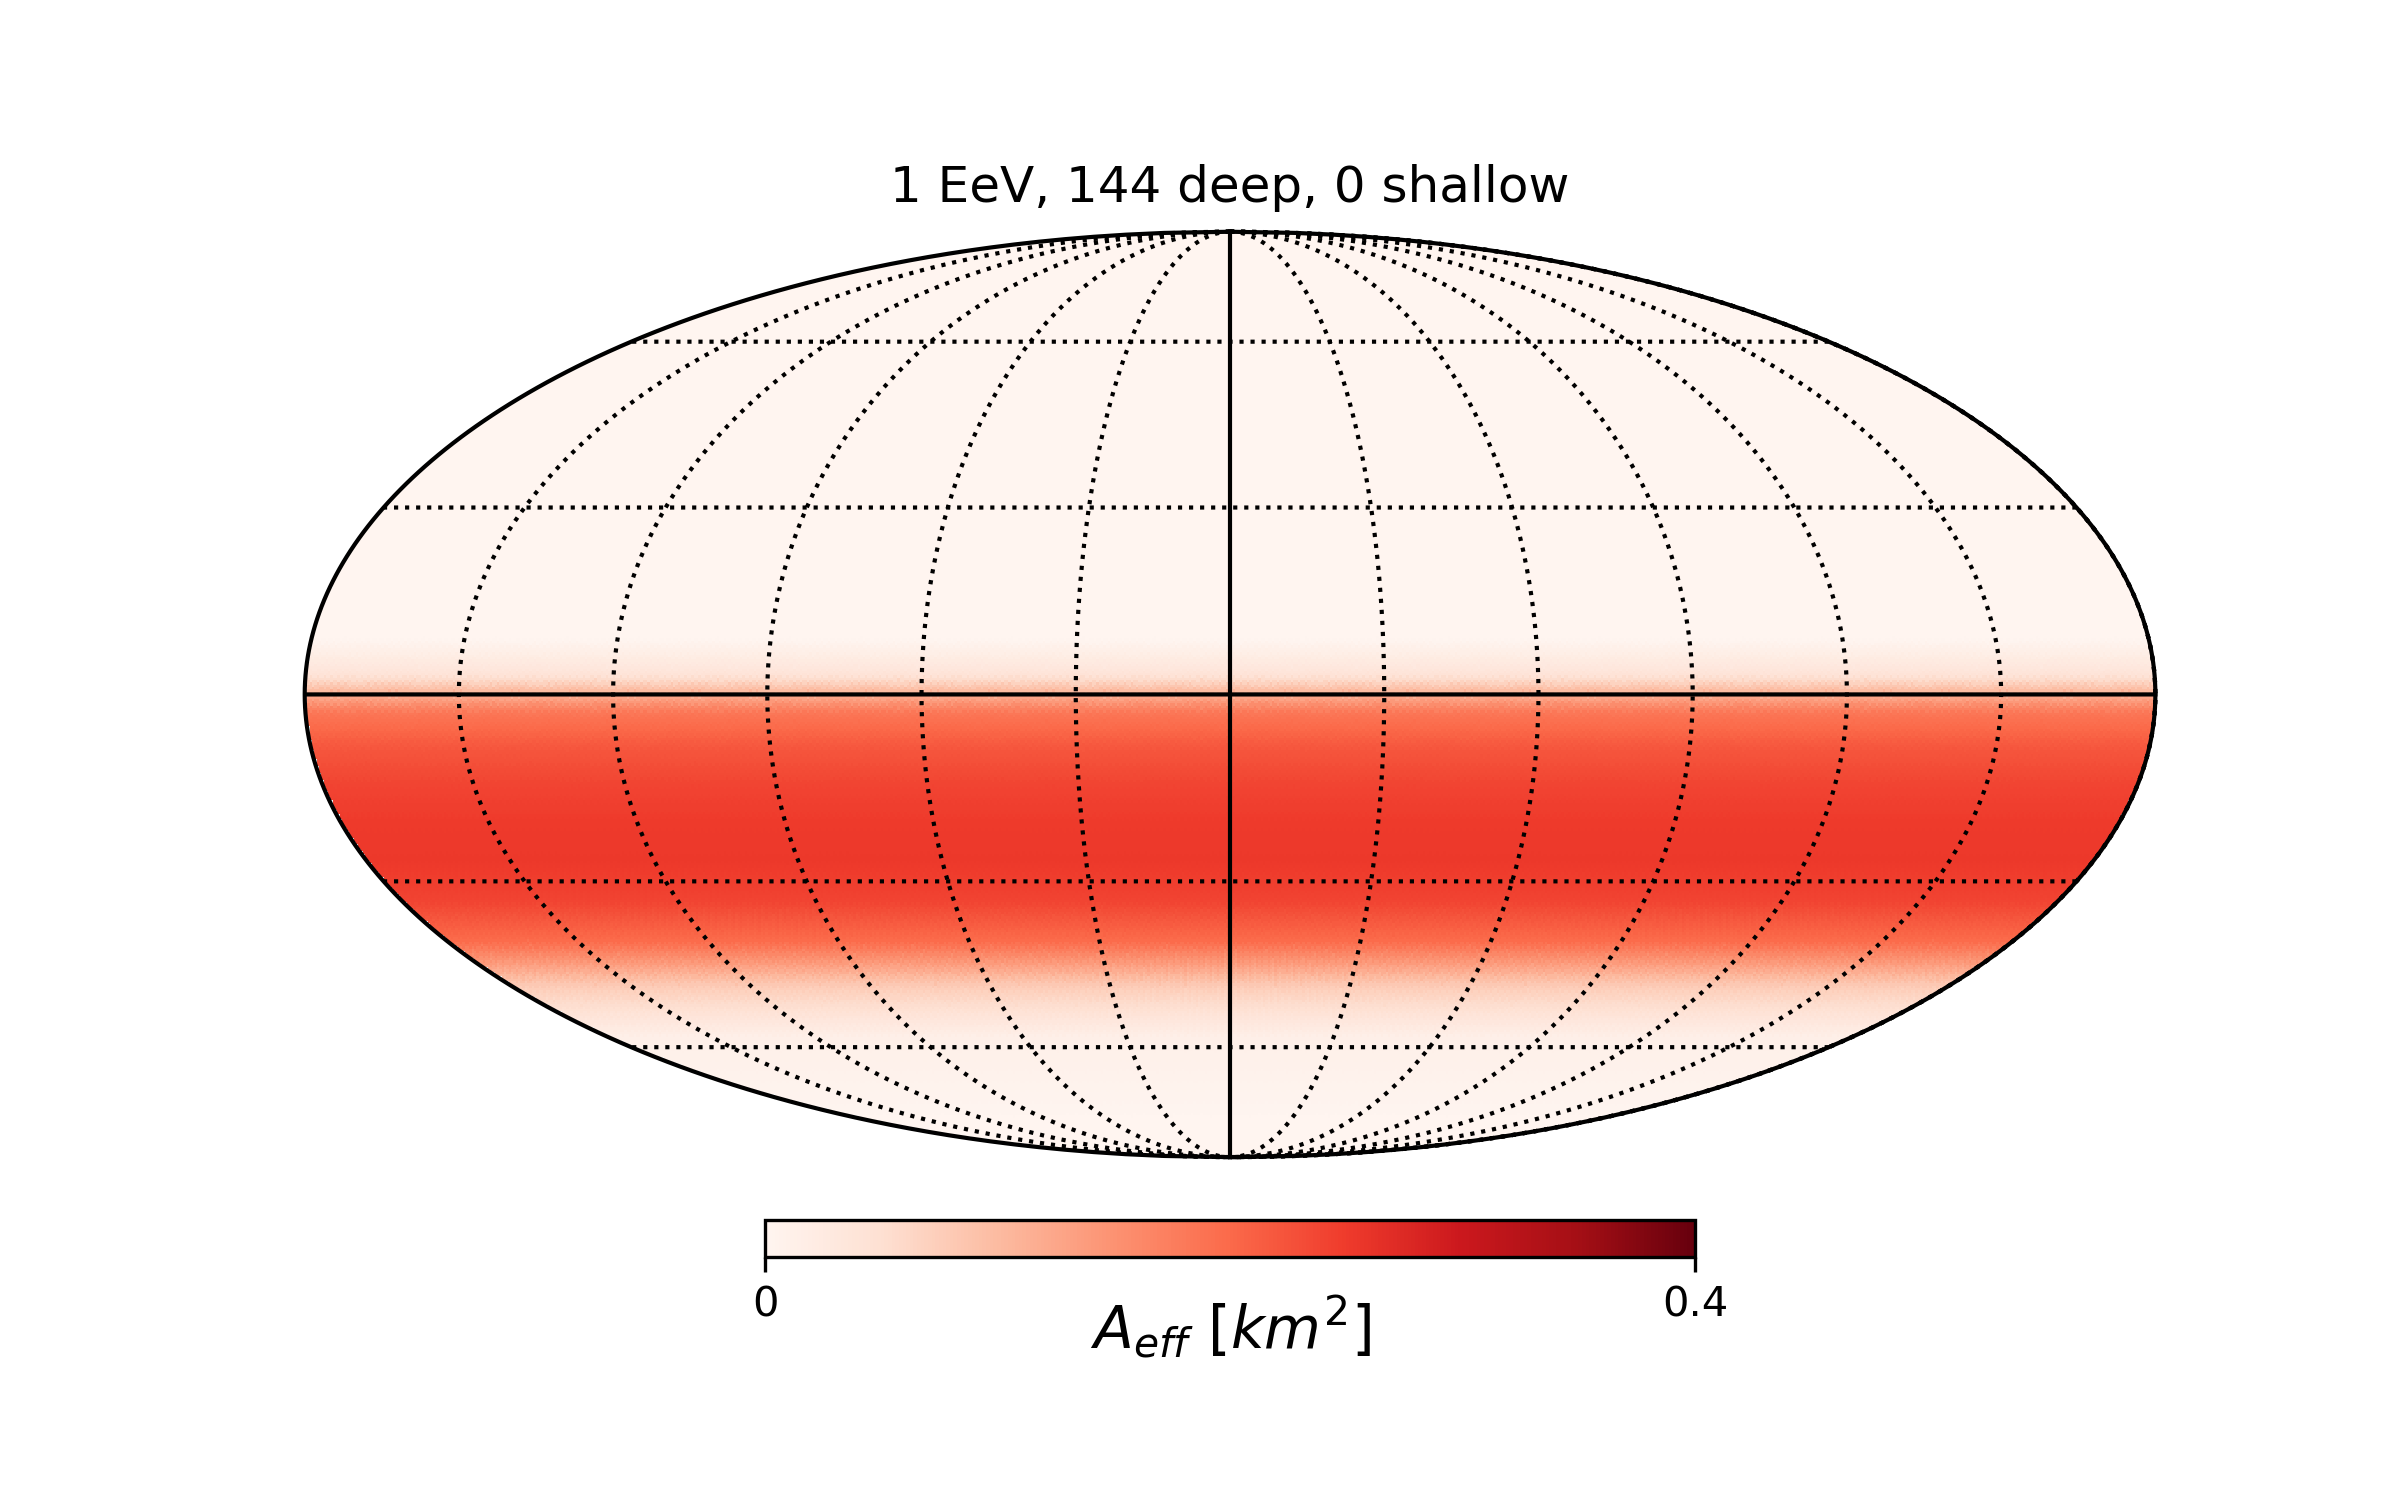
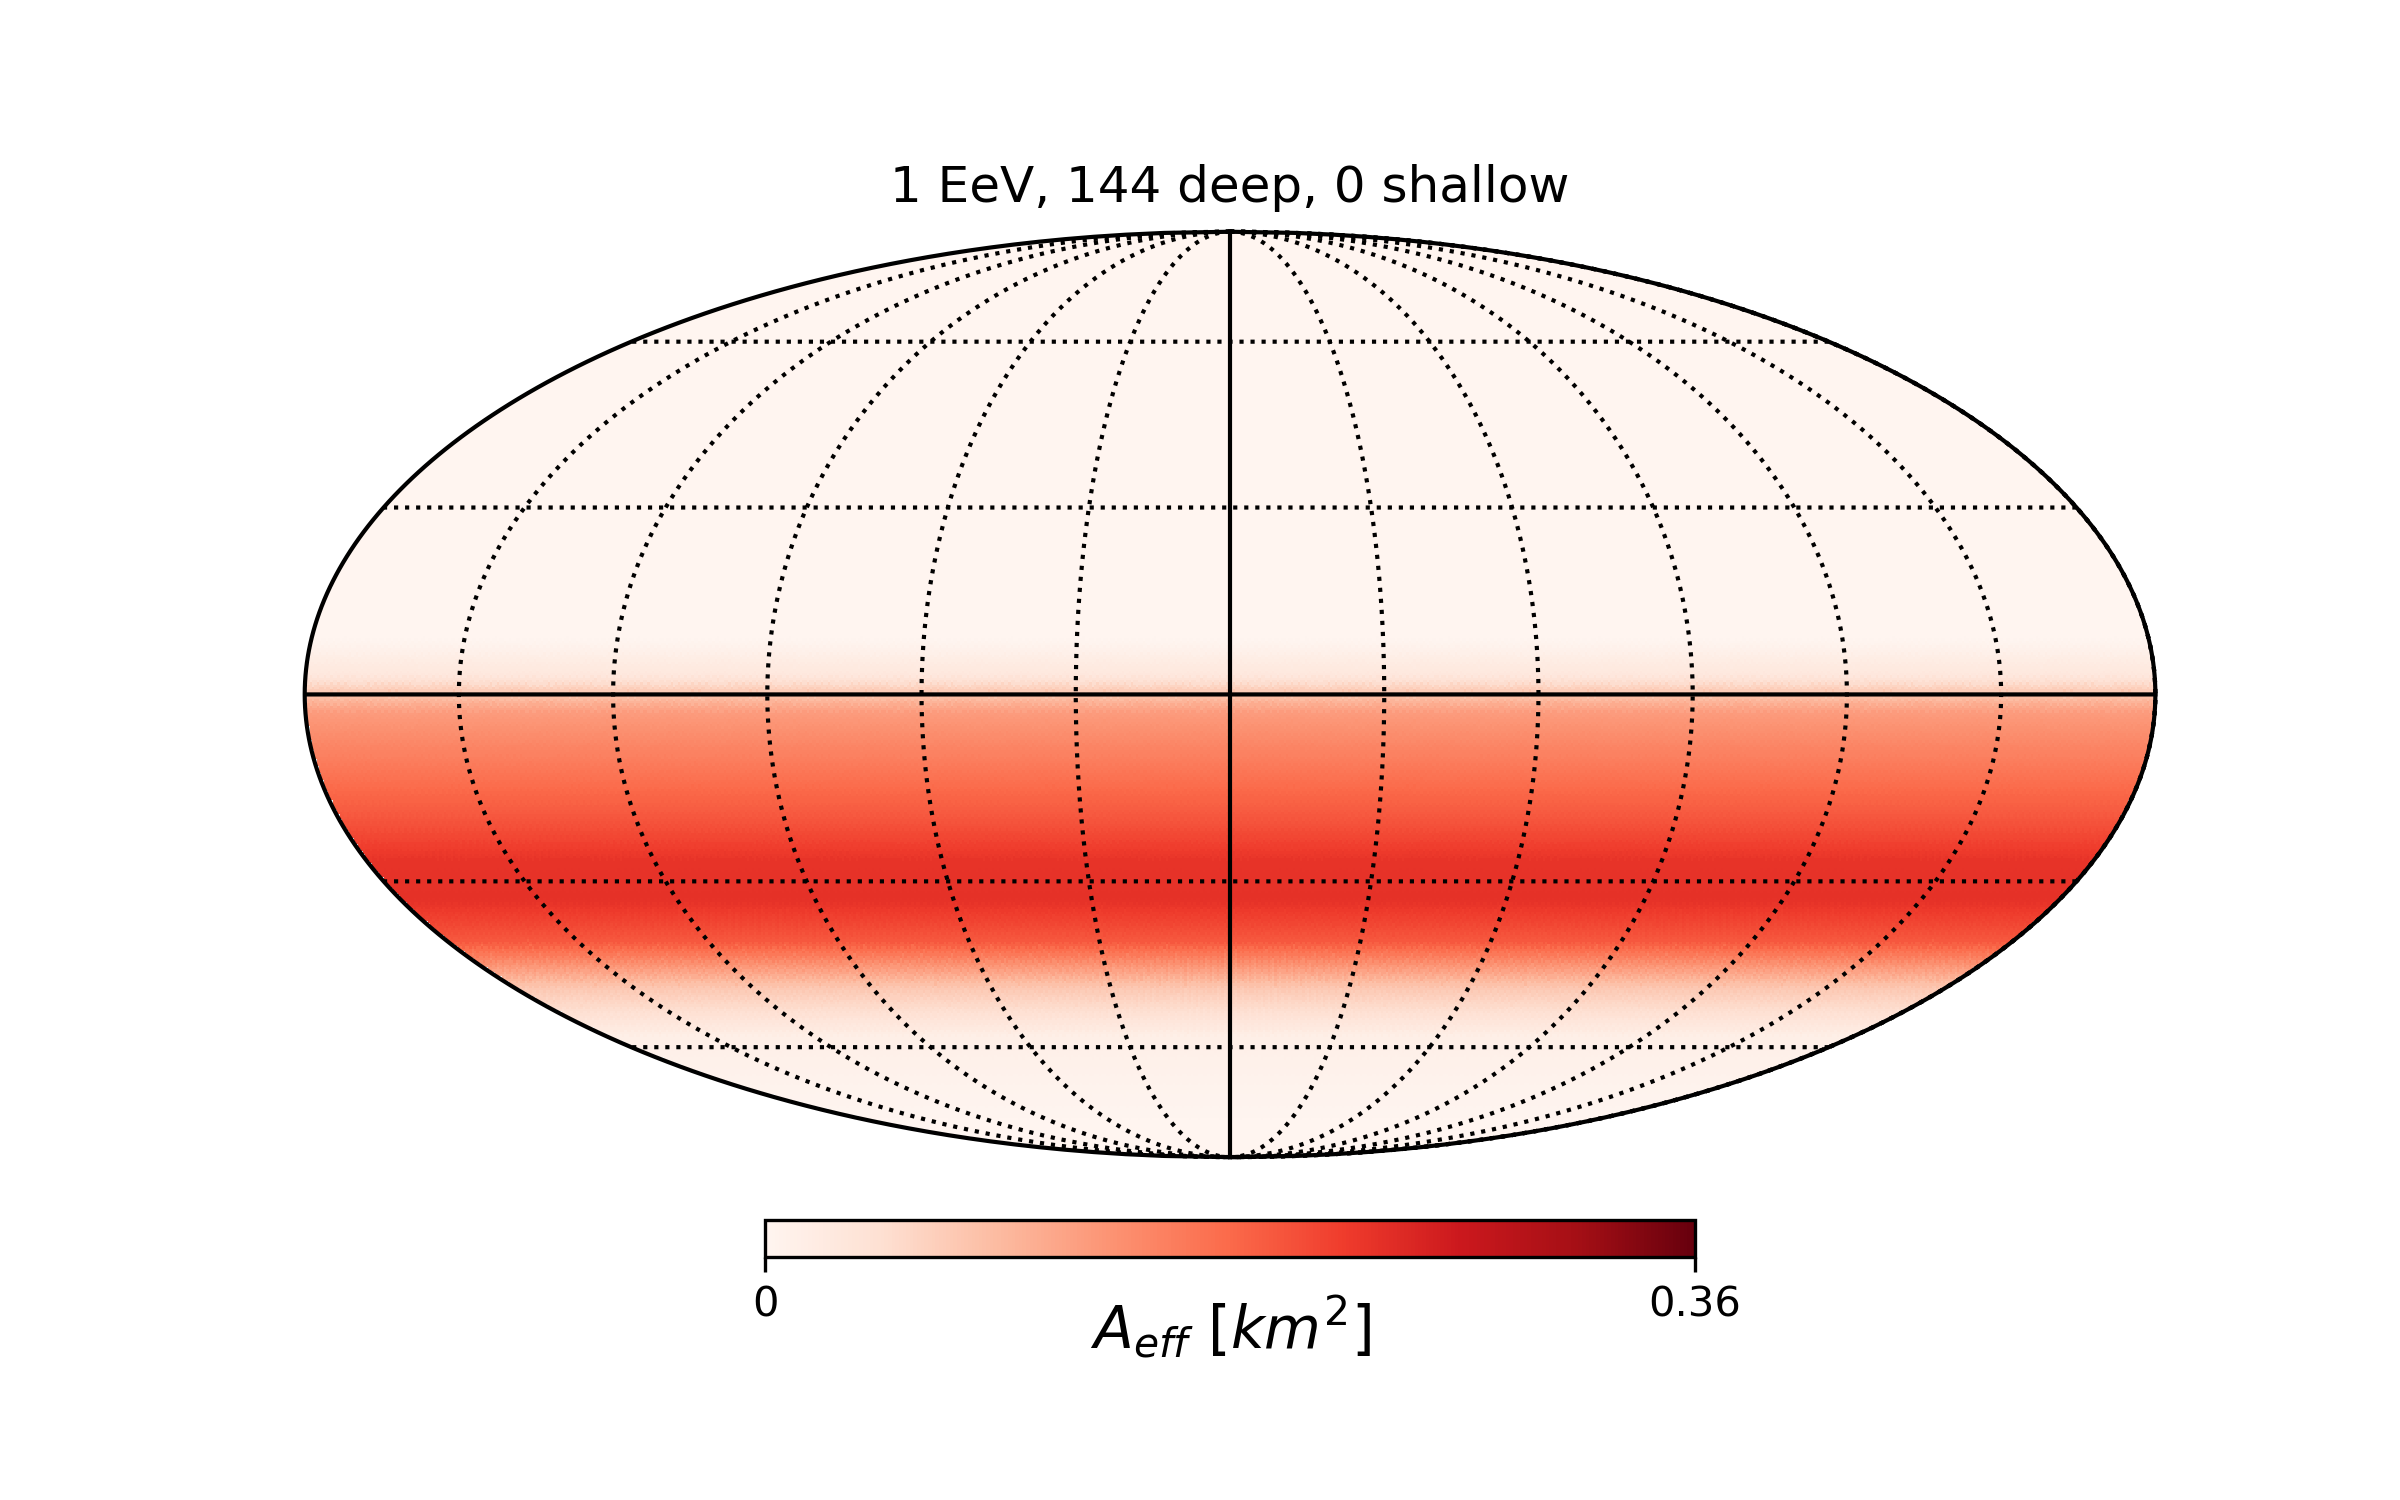
update sky coverage plots

Changed region(s): [[0.125, 0.46, 0.9062, 0.552], [0.6875, 0.8587, 0.7188, 0.8893]]

diff --git a/analysis/2021.02_review/sky_coverage/plot_sky_coverage.py b/analysis/2021.02_review/sky_coverage/plot_sky_coverage.py
@@ -4,55 +4,61 @@ import scipy as scipy
 from scipy import interpolate
 
 
-n_deep = 0 #144
-n_shallow = (169+144)
-uptime = 1.
-which_e_bin = 6
+n_deep = 144
+n_shallow = 0#(169+144)
 
 deep_det = 'pa_200m_2.00km'
 shallow_det = 'surface_1.00km'
-filename=f'tabulated_aeff_vs_zen_{deep_det}_{shallow_det}_Ebin_{which_e_bin}.csv'
+filename=f'tabulated_aeff_vs_coszen_review_hybrid.csv'
 
-data = np.genfromtxt(filename, delimiter=',', skip_header=1, names=['czmin', 'daeff', 'saeff'])
+data = np.genfromtxt(filename, delimiter=',', skip_header=6, names=['czmin', 'daeff', 'saeff', 'frac'])
 
-# plot of coverage vs zenith
-fig = plt.figure(figsize=(5,5))
-ax = fig.add_subplot(111)
-ax.plot(data['czmin'], data['daeff']*n_deep*2, label='deep')
-ax.plot(data['czmin'], data['saeff']*n_shallow*2, label='shallow')
-ax.set_xlabel('coz(zen)')
-ax.set_ylabel(r'Aeff $\times 2 \pi$ [$km^2$]')
-ax.set_yscale('log')
-ax.set_ylim([1e-3,10])
-ax.legend()
-ax.set_title('Trigger Level')
-plt.tight_layout()
-fig.savefig('aeff_vs_coszen.png')
-
-
-# zen_for_interp = np.append(data['czmin'], -1)
-# daeff_for_interp = np.append(data['daeff'], data['daeff'][-1])
-# saeff_for_interp = np.append(data['saeff'], data['saeff'][-1])
-
-zen_for_interp = data['czmin']
-zen_for_interp-=0.05
-daeff_for_interp = data['daeff']
-saeff_for_interp = data['saeff']
-
-zen_for_interp = np.flip(zen_for_interp)
-daeff_for_interp = np.flip(daeff_for_interp)
-saeff_for_interp = np.flip(saeff_for_interp)
-
-# tck = interpolate.splrep(zen_for_interp, daeff_for_interp, k=2)
-interpolator_deep = scipy.interpolate.interp1d(zen_for_interp,daeff_for_interp,fill_value='extrapolate')
-interpolator_shallow = scipy.interpolate.interp1d(zen_for_interp,saeff_for_interp,fill_value='extrapolate')
-
-zen_bins_for_digi = data['czmin']
-zen_bins_for_digi = np.append(zen_bins_for_digi,-1.)
-# zen_bin_to_aeff_dict = {A:B for A,B in zip(data['czmin'], data['daeff'])}
+plot_aeff_vs_zen = False
+if plot_aeff_vs_zen:
+	# plot of coverage vs zenith
+	fig = plt.figure(figsize=(5,5))
+	ax = fig.add_subplot(111)
+	ax.plot(data['czmin'], data['daeff']*n_deep, label='deep')
+	ax.plot(data['czmin'], data['saeff']*n_shallow, label='shallow')
+	ax.set_xlabel('coz(zen)')
+	ax.set_ylabel(r'Aeff [$km^2$]')
+	ax.set_yscale('log')
+	ax.set_ylim([1e-3,10])
+	ax.legend()
+	ax.set_title('Trigger Level')
+	plt.tight_layout()
+	fig.savefig('aeff_vs_coszen.png')
 
 doHealpyPlot = True
 if doHealpyPlot:
+
+	# pad a bit to get digitization to work right
+	# zen_for_interp = np.append(data['czmin'], -1)
+	# daeff_for_interp = np.insert(data['daeff'],0, data['daeff'][0])
+	# saeff_for_interp = np.insert(data['saeff'],0, data['saeff'][0])
+	# daeff_for_interp = np.append(data['daeff'], data['daeff'][-1])
+	# saeff_for_interp = np.append(data['saeff'], data['saeff'][-1])
+
+	zen_for_interp = data['czmin']
+	zen_for_interp+=0.05
+	daeff_for_interp = data['daeff']
+	saeff_for_interp = data['saeff']
+	fractions = data['frac']
+
+	zen_for_interp = np.flip(zen_for_interp)
+	daeff_for_interp = np.flip(daeff_for_interp)
+	saeff_for_interp = np.flip(saeff_for_interp)
+	fractions = np.flip(fractions)
+
+	# tck = interpolate.splrep(zen_for_interp, daeff_for_interp, k=2)
+	interpolator_deep = scipy.interpolate.interp1d(zen_for_interp,daeff_for_interp,fill_value='extrapolate')
+	interpolator_shallow = scipy.interpolate.interp1d(zen_for_interp,saeff_for_interp,fill_value='extrapolate')
+	interpolator_fraction = scipy.interpolate.interp1d(zen_for_interp, fractions,fill_value='extrapolate')
+
+	# zen_bins_for_digi = data['czmin']
+	# zen_bins_for_digi = np.insert(zen_bins_for_digi, 0, 1)
+	# zen_bins_for_digi = np.append(zen_bins_for_digi,-1.)
+	# zen_bin_to_aeff_dict = {A:B for A,B in zip(data['czmin'], data['daeff'])}
 
 	import healpy as hlpy
 	nside = 64
@@ -63,10 +69,11 @@ if doHealpyPlot:
 	for ipix in range(npix):
 		theta, phi = hlpy.pix2ang(nside, ipix) # where it's coming from
 		cos_theta = -1 * np.cos(theta)
-		thebin = np.digitize(cos_theta, zen_bins_for_digi)
+		# thebin = np.digitize(cos_theta, zen_bins_for_digi)
 		# aeff_this  = data['daeff'][thebin-1]*n_deep + data['saeff'][thebin-1]*n_shallow
 		# aeff_this = interpolate.splev(cos_theta, tck)
-		aeff_this = interpolator_deep(cos_theta)*n_deep + interpolator_shallow(cos_theta)*n_shallow
+		aeff_this = (interpolator_deep(cos_theta)*n_deep + interpolator_shallow(cos_theta)*n_shallow)*(1-interpolator_fraction(cos_theta))
+		# aeff_this = interpolator_fraction(cos_theta)
 		if cos_theta > -2:
 			# scan[ipix] = np.log10(aeff_this)
 			# if(aeff_this<1E-4):
@@ -94,7 +101,7 @@ if doHealpyPlot:
 							unit='\n'+r'$A_{eff} \,\,[km^2]$',
 							# unit='\n'+r'Relative Effective Area',)
 							min=0,
-							max=0.4,
+							max=0.36,
 							cmap='Reds')
 	hlpy.graticule()
 	fig.savefig('sky_coverage_{}deep_{}shallow.png'.format(n_deep, n_shallow), dpi=300)
